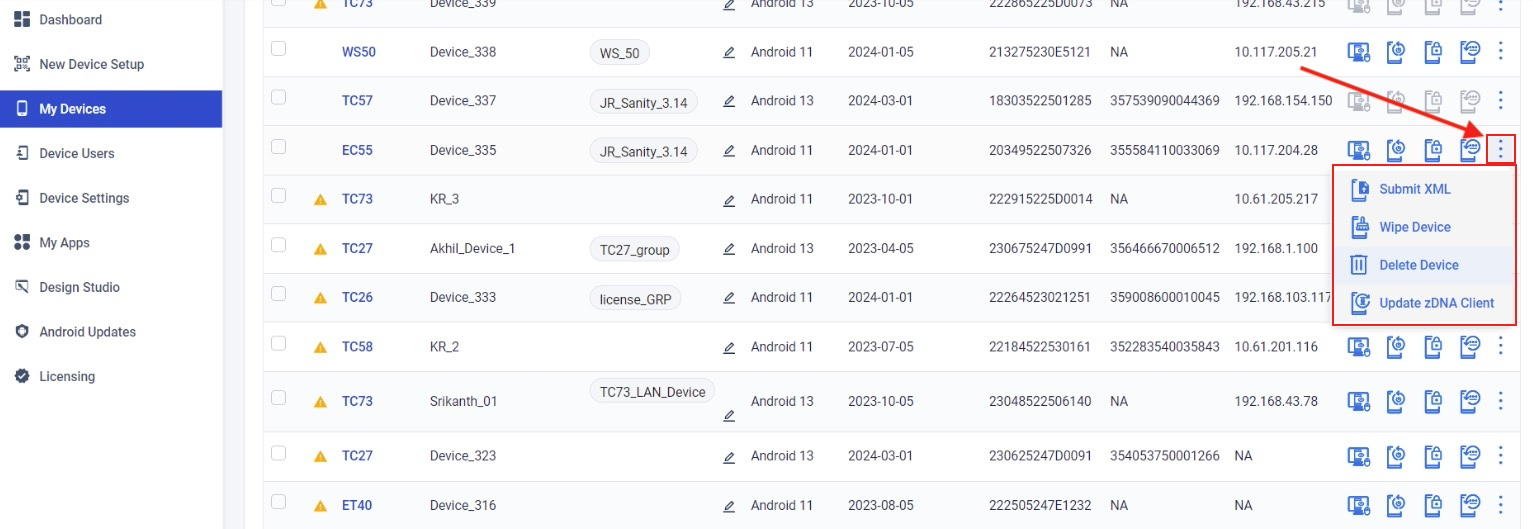
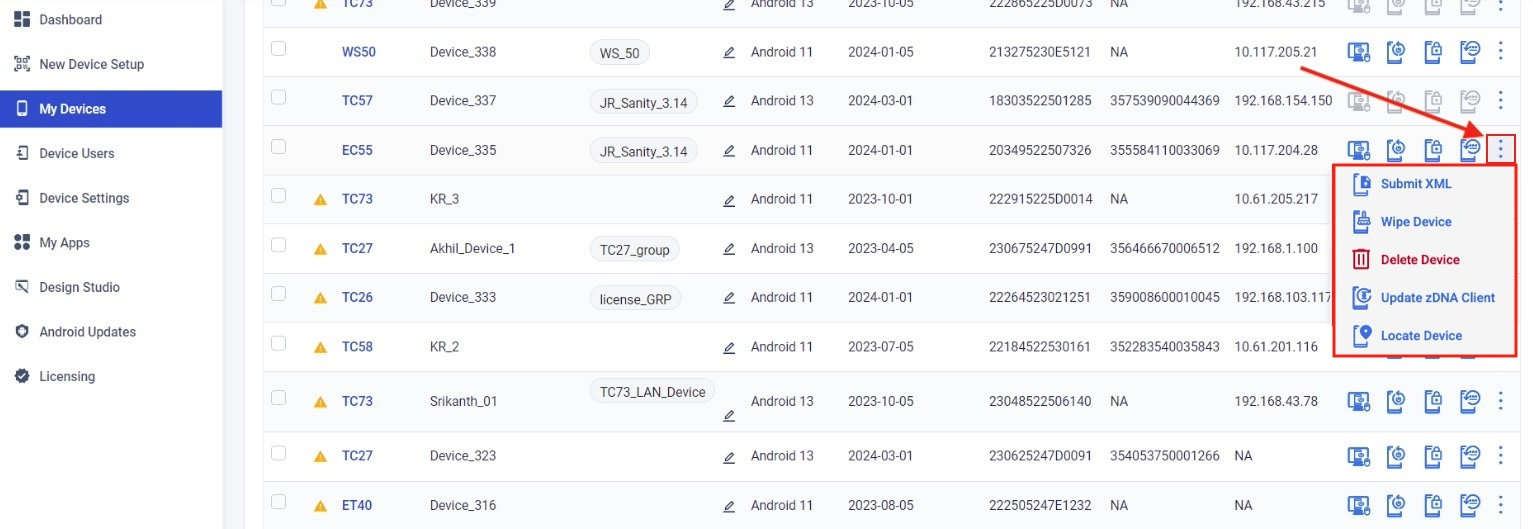
[TUT-106285] ZDNA 5.2 updates, per eng; FINAL DRAFT

Changed region(s): [[0.8584, 0.3025, 1.0, 0.6957]]

diff --git a/zebradna/5-2/usage/index.html b/zebradna/5-2/usage/index.html
@@ -481,20 +481,22 @@ PLAY STORE
 
 <li><strong>Lock Device -</strong> immediately activates the Lock Screen</li>
 
-<li><strong>Reset Device Passcode* -</strong> removes any existing swipe pattern, PIN or password </li>
+<li><strong>Reset Device Passcode</strong>* <strong>-</strong> removes any existing swipe pattern, PIN or password </li>
 
-<li><strong>Submit XML ✝ -</strong> presents a text box for pasting machine-generated XML and sending to selected device(s) for execution </li>
+<li><strong>Submit XML</strong> <i>†</i> <strong>-</strong> presents a text box for pasting machine-generated XML and sending to selected device(s) for execution </li>
 
 <li><strong>Wipe Device -</strong> resets the device to its factory-fresh state, <strong>permanently erasing all user apps and data</strong></li>
 
-<li><strong>Delete Device ‡ -</strong> removes zDNA client app from device, de-enrolls device from ZDNA system; other apps and settings on device remain unchanged. <strong>Optionally performs a Factory Reset</strong>, returning device to factory-fresh state.   </li>
+<li><strong>Delete Device</strong> <i>‡</i> <strong>-</strong> removes zDNA client app from device, de-enrolls device from ZDNA system; other apps and settings on device remain unchanged.<br><strong>Optionally performs a Factory Reset</strong>, returning device to factory-fresh state.   </li>
 
 <li><strong>Update zDNA Client -</strong> checks the client app on the device and pushes an update, if necessary </li>
 
-<li><strong>Reapply -</strong> Reapplies a settings Profile, usually after addressing "Issues" or a change of device availability (expires after 7 days)</li>
+<li><strong>Reapply -</strong> redeploys a settings Profile, usually after addressing "Issues" or a change of device availability (expires after 7 days)</li>
+
+<li><strong>Locate Device</strong>** <strong>-</strong> gathers GPS data from a selected device, opens a new tab and displays device location on a Google Map </li>
 </ul>
 
-<p><i><font size="1" color="grey">* Has no effect if user changed passcode before ZDNA enrollment. To regain control, perform an Enterprise Reset and re-enroll device.<br>✝ No feedback is provided as to the success or failure of this action.<br>‡ Deleted devices could remain visible in deployment detail documents if the device was selected for deployment before being deleted.</font></i></p>
+<p><i><font size="1" color="grey">* Has no effect if user changed passcode before ZDNA enrollment. To regain control, perform an Enterprise Reset on device and re-enroll.<br>† No feedback is provided as to the success or failure of this action.<br>‡ Deleted devices could remain visible in deployment detail documents if the device was selected for deployment before being deleted.<br>** A license is required for this feature.</font></i></p>
 
 <hr>
 

diff --git a/zebradna/5-2/faq/index.html b/zebradna/5-2/faq/index.html
@@ -247,8 +247,18 @@
                                     <div class="">
 
                                         <p></p><blockquote>
-  <p><i class="fa fa-calendar" style="color:#27AE60;"></i> <strong>LAST UPDATED: Jan. 14, 2025</strong></p>
+  <p><i class="fa fa-calendar" style="color:#27AE60;"></i> <strong>LAST UPDATED: Mar. 12, 2025</strong></p>
 </blockquote>
+
+<!-- 
+
+
+>>> UPDATE "LAST UPDATED" DATE!! <<<<
+>>> UPDATE "LAST UPDATED" DATE!! <<<< 
+>>> UPDATE "LAST UPDATED" DATE!! <<<<
+
+
+-->
 
 <p></p><h2 id="commonquestionsandknownissues" class="anchor"><a class="heading-anchor" href="#commonquestionsandknownissues"><span></span></a>Common Questions and Known Issues</h2>
 
@@ -260,20 +270,19 @@
 
 <hr>
 
-<!-- 1/3/25 new year, new undo: DLM-43823
+<h3 id="qisthereadedicatedurlfordnacloudusersineurope" class="anchor"><a class="heading-anchor" href="#qisthereadedicatedurlfordnacloudusersineurope"><span></span></a>Q: Is there a dedicated URL for DNA Cloud users in Europe?</h3>
 
-UPDATE "LAST UPDATED" DATE!! 
+<p><strong>Yes.* New customers in Europe can now experience reduced latencies by using Zebra's EU-based DNA Cloud servers</strong>: </p>
 
-### Q: Is there a dedicated URL for DNA Cloud users in Europe? 
+<ul>
+<li><strong><a href="https://eu-dnacloud.zebra.com/app/home">eu-dnacloud.zebra.com</a></strong></li>
+</ul>
 
-**Yes. New customers in Europe can now experience reduced latencies by using Zebra's new DNA Cloud URL**: 
+<p><i class="fa fa-exclamation-circle" style="color:#FF0000;"></i> <strong>Servers in Europe and North America are NOT interchangeable</strong>. Customer data stored on one server is NOT replicated on any other server. </p>
 
-* **[eu-dnacloud.zebra.com](https://eu-dnacloud.zebra.com/app/home)**
+<p><i><font size="1" color="grey">* <a href="../support/wirelessinsights/">Wireless Insights</a> is available only on servers in North America.</font></i></p>
 
-<i class="fa fa-exclamation-circle" style="color:#FF0000;"></i> **Servers in Europe and North America are NOT interchangeable**. Customer data stored on one server is NOT replicated to any other server. 
-
------
- -->
+<hr>
 
 <h2 id="appdeployment" class="anchor"><a class="heading-anchor" href="#appdeployment"><span></span></a>App Deployment</h2>
 

diff --git a/zebradna/5-2/support/wirelessinsights/index.html b/zebradna/5-2/support/wirelessinsights/index.html
@@ -247,16 +247,18 @@
                                     <div class="">
 
                                         <p></p><blockquote>
-  <p><i class="fa fa-calendar" style="color:#27AE60;"></i> <strong>LAST UPDATED: Jan. 24, 2025</strong></p>
+  <p><i class="fa fa-calendar" style="color:#27AE60;"></i> <strong>LAST UPDATED: Mar. 12, 2025</strong></p>
 </blockquote>
 
 <p></p><h2 id="overview" class="anchor"><a class="heading-anchor" href="#overview"><span></span></a>Overview</h2>
 
 <p><strong>The Wireless Insights service provides real-time performance data for active Zebra Android devices, including Wi-Fi and cellular connection events, signal strength and service quality by carrier, device and/or device group</strong>. The service is part of the Zebra Collection in My Apps section and is free to use on supported devices without additional licensing.</p>
 
+<p><i class="fa fa-exclamation-triangle" style="color:#FFA500;"></i> Wireless Insights is available only on DNA Cloud servers in North America.</p>
+
 <p><img alt="" style="height:350px" src="wi_dashboard_overview.jpg">
 <em>The Wireless Insights dashboard shows real-time Wi-Fi (top row) and cellular performance for active devices</em>.<br>
-<em>Click image to enlarge; ESC to exit</em>.<br>
+<em>Click image to enlarge; ESC to exit</em>.
 <br></p>
 
 <h3 id="requirements" class="anchor"><a class="heading-anchor" href="#requirements"><span></span></a>Requirements</h3>

diff --git a/zebradna/5-2/about/index.html b/zebradna/5-2/about/index.html
@@ -276,20 +276,22 @@
 
 
 <ul>
-<li>“Locate Device” is invoked from Action section of My Devices page  </li>
+<li>“Locate Device” is invoked from the Action menu of the My Devices page:
+<img alt="image" style="height:250px" src="52_locate_device.jpg">
+<em>Click image to enlarge; ESC to exit</em>.</li>
 
-<li>Displays individual device location(s) using Google Maps</li>
+<li>Displays an individual device's location on a Google Map</li>
 
-<li>Maps open in a separate tab; one device per map</li></ul>
+<li>Each mapped device opens in a new tab; one device per map</li></ul>
 </li>
 
-<li><strong>Adds support for OEMConfig 13.5.1.3</strong> </li>
+<li><strong>Adds support for OEMConfig 13.5.1.4</strong> </li>
 
 <li><strong>Adds the following app versions to the <a href="../usage/#zebracollection">Zebra Collection</a></strong>:
 
 
 <ul>
-<li><strong>Enterprise Browser 5.0.0.13</strong> </li>
+<li><strong>Enterprise Keyboard 5.1</strong> </li>
 
 <li><strong>Enterprise Home Screen 7.2.17</strong></li></ul>
 </li>
